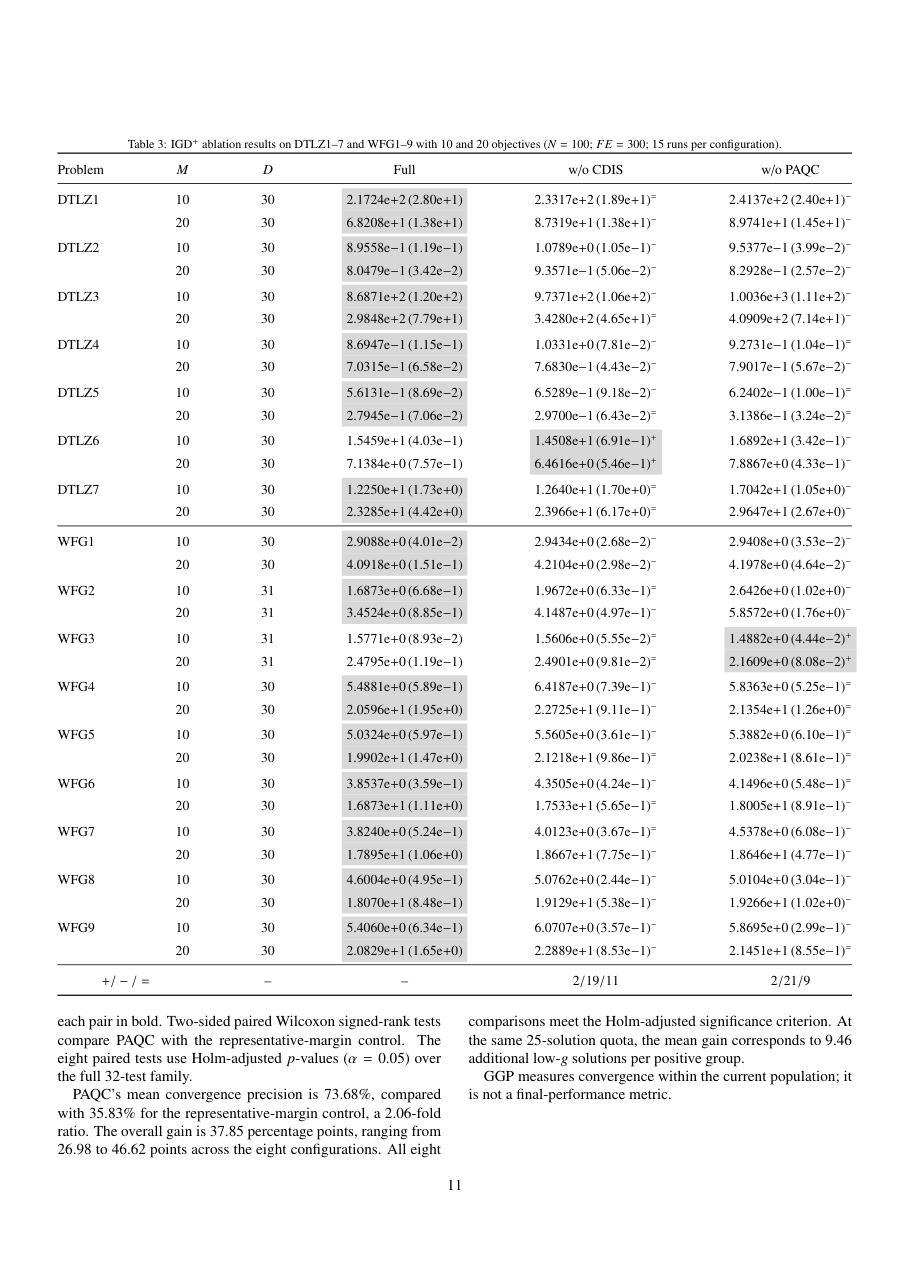
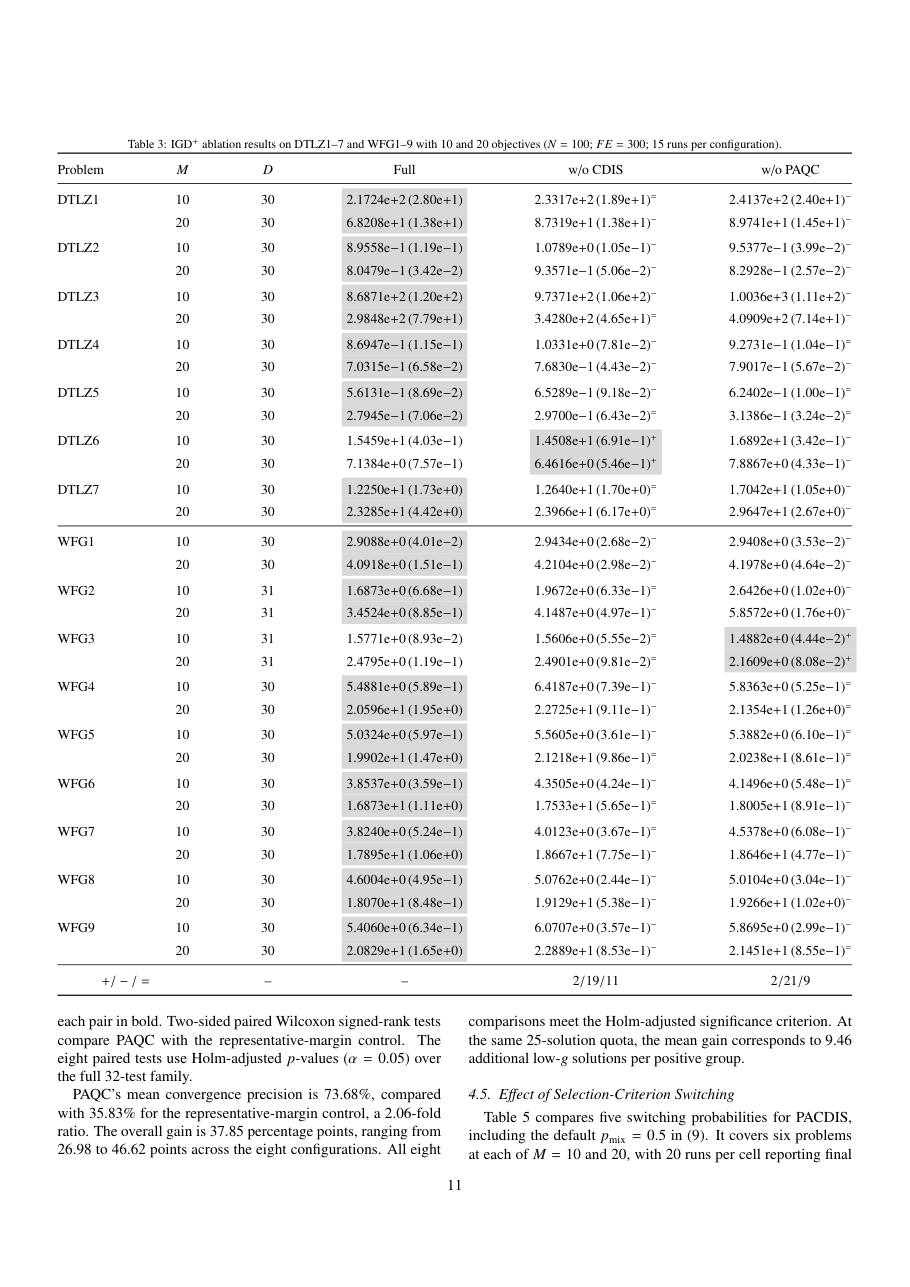
论文：删除 4.4 节 GGP 段末的防御性免责句
- 删除 "GGP measures convergence within the current population; it is not a
  final-performance metric."（中文稿同步删除）
- 该句的信息已由小节标题、表 4 表题（matched population checkpoints）和
  正文 "This diagnostic measures convergence enrichment" 三处覆盖，属重复+防御
- 编译两遍：13 页、0 Overfull，分页不变

Changed region(s): [[0.5231, 0.8392, 0.9538, 0.9013]]

diff --git a/论文写作/HPDC-MaOEA.tex b/论文写作/HPDC-MaOEA.tex
@@ -1045,10 +1045,6 @@ configurations. All eight comparisons meet the Holm-adjusted significance
 criterion. At the same 25-solution quota, the mean gain corresponds to 9.46
 additional low-$g$ solutions per positive group.
 
-% Takeaway: bound the evidence to current positive-group convergence.
-GGP measures convergence within the current population; it is not a
-final-performance metric.
-
 \subsection{Effect of Selection-Criterion Switching}
 \label{sec:exp:pmix}
 

diff --git a/论文写作/HPDC-MaOEA_中文版.md b/论文写作/HPDC-MaOEA_中文版.md
@@ -6,7 +6,7 @@
 
 单位：某大学某系；地址：某街，某市，某省，某国；邮编：000000。
 
[2 lines of base64/hex data omitted]
 >
 > 表格数值与统计符号保留原文，Markdown 用加粗标出原表的灰色最优单元格。参考文献保留原始英文著录，便于检索。作者与单位占位保留。
 
@@ -507,8 +507,6 @@ $$
 
 
 PAQC 的平均收敛精确率为 73.68%，代表解裕量对照为 35.83%，比值为 2.06。总体增益为 37.85 个百分点，八种配置的增益介于 26.98 和 46.62 个百分点之间。八次比较均达到 Holm 校正后的显著性标准。在相同的 25 解配额下，平均增益对应每个正组多出 9.46 个低 $g$ 解。
-
-GGP 衡量当前种群内部的收敛性，不是最终性能指标。
 
 ### 4.5 选择准则切换的影响
 
